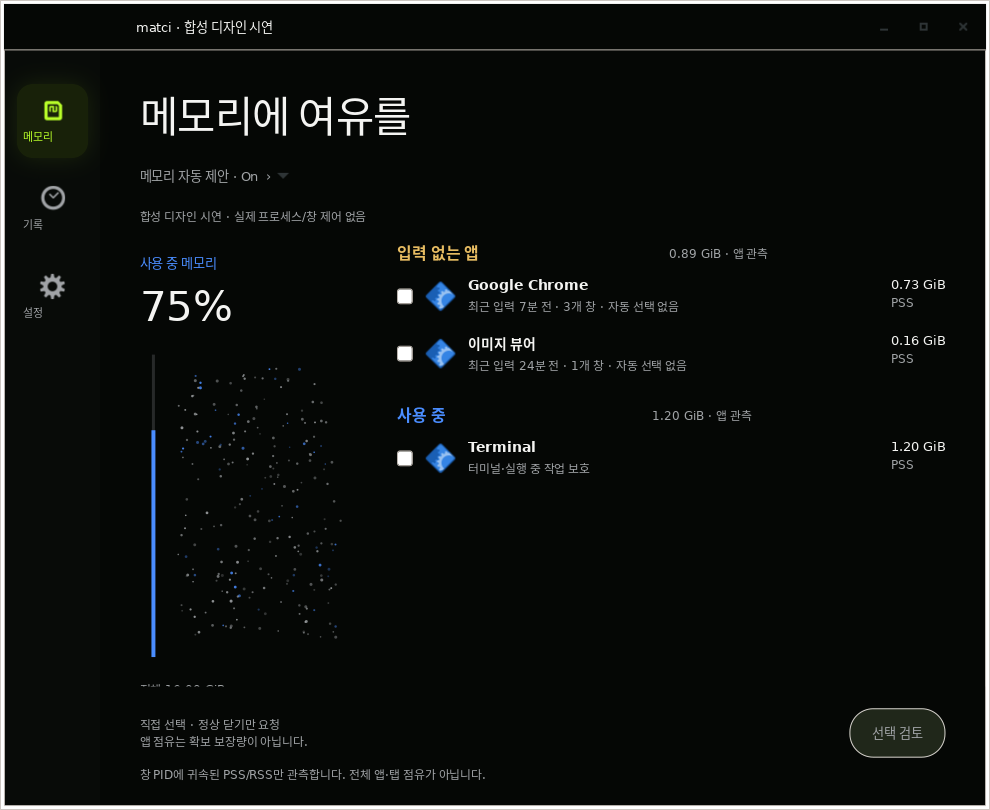
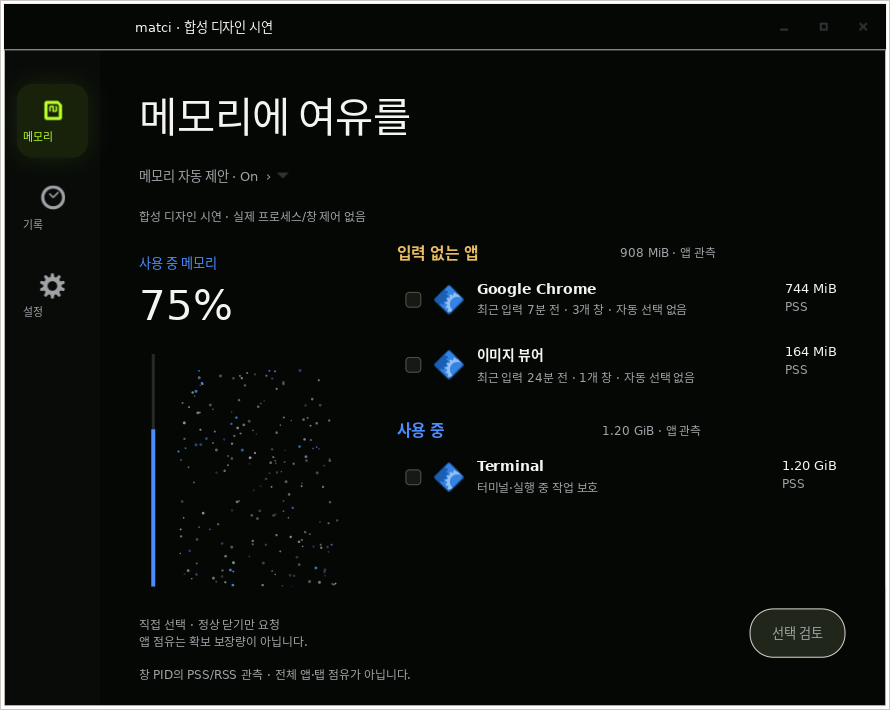
fix: polish adaptive GTK layout, units and release motion

diff --git a/app/main.js b/app/main.js
@@ -2,7 +2,8 @@ import Gtk from 'gi://Gtk?version=4.0';
 import Gdk from 'gi://Gdk?version=4.0';
 import Gio from 'gi://Gio';
 import GLib from 'gi://GLib';
-import {COLORS, memoryPoints} from './visualModel.js';
+import Pango from 'gi://Pango';
+import {COLORS, memoryPoints, formatBytes as bytes} from './visualModel.js';
 
 // Installed beside the extension modules. No worker, process collector or OS-close API.
 const root = Gio.File.new_for_uri(import.meta.url).get_parent().get_parent().get_path();
@@ -10,15 +11,17 @@ const demo = ARGV.includes('--demo') || ARGV.includes('--smoke');
 const smoke = ARGV.includes('--smoke');
 if (demo) GLib.setenv('GSETTINGS_BACKEND', 'memory', true);
 const app = new Gtk.Application({application_id: 'org.matci.App', flags: 0});
-const bytes = value => Number.isFinite(value) ? `${(value / 1073741824).toFixed(2)} GiB` : '확인 불가';
 const percent = value => Number.isFinite(value) ? `${Math.round(value * 100)}%` : '—';
 let win, content, graph, metric, notice, action, list, heading, autoButton, settings, dialog, graphCaption, footerHost;
 let page = 'memory', current = {mode:'offline', apps:[], memory:null}, selected = new Set();
 let polling = false, disposed = false, modal = false, pollTimer = 0, animationTimer = 0, drawCount = 0;
 let releaseAt = 0, receiptKey = '', points = [], sampleId = null, generation = 0, resultMetric = null;
 let installedApps = new Map();
+let shellLayout, navRail, memoryStage, visualization, actionRow, footerNote;
+let stacked = null, narrow = null;
+let smokeRows=[];
 const label = (text, css = '', wrap = false) => {
-    const widget = new Gtk.Label({label:String(text), xalign:0, wrap, hexpand:true});
+    const widget = new Gtk.Label({label:String(text), xalign:0, wrap, hexpand:true, wrap_mode:Pango.WrapMode.WORD_CHAR});
     if (css) widget.add_css_class(css); return widget;
 };
 const box = (vertical = true, spacing = 0) => new Gtk.Box({orientation:vertical ? Gtk.Orientation.VERTICAL : Gtk.Orientation.HORIZONTAL, spacing});
@@ -71,25 +74,44 @@ function autoPopover() {
     popover.set_child(body); popover._matciToggle=toggle; popover._matciSlider=slider; return popover;
 }
 function autoTitle() { if (autoButton) autoButton.label = `메모리 자동 제안 · ${settings?.get_boolean('auto-suggestions') ? 'On' : 'Off'}  ›`; }
+function responsive(force = false) {
+    const width = win.get_width() || 480;
+    const nextStacked = width < 820, nextNarrow = width < 700;
+    if (!force && nextStacked === stacked && nextNarrow === narrow) return;
+    stacked = nextStacked; narrow = nextNarrow;
+    for (const [active, css] of [[stacked,'stacked'],[narrow,'narrow']])
+        active ? win.add_css_class(css) : win.remove_css_class(css);
+    shellLayout.orientation = narrow ? Gtk.Orientation.VERTICAL : Gtk.Orientation.HORIZONTAL;
+    navRail.orientation = narrow ? Gtk.Orientation.HORIZONTAL : Gtk.Orientation.VERTICAL;
+    navRail.hexpand = narrow;
+    if (page === 'memory' && memoryStage) {
+        memoryStage.orientation = stacked ? Gtk.Orientation.VERTICAL : Gtk.Orientation.HORIZONTAL;
+        visualization.hexpand = stacked; graph.hexpand = stacked;
+        graph.content_width = stacked ? 1 : 230; graph.content_height = stacked ? 220 : 330;
+        actionRow.orientation = narrow ? Gtk.Orientation.VERTICAL : Gtk.Orientation.HORIZONTAL;
+    }
+}
 function memoryPage() {
     clear(content); clear(footerHost);
-    heading = label('메모리에 여유를', 'hero-title'); content.append(heading);
+    heading = label('메모리에 여유를', 'hero-title', true); content.append(heading);
     autoButton = new Gtk.MenuButton({halign:Gtk.Align.START}); autoButton.add_css_class('auto-trigger');
     autoButton.set_popover(autoPopover()); autoTitle(); content.append(autoButton);
     notice = label('', 'muted', true); content.append(notice);
-    const stage = box(false, 30); content.append(stage);
-    const visualization = box(true, 12); visualization.add_css_class('visualization'); visualization.hexpand = false;
+    memoryStage = box(false, 30); content.append(memoryStage);
+    visualization = box(true, 12); visualization.add_css_class('visualization'); visualization.hexpand = false;
     const values = box(true, 10); values.valign = Gtk.Align.CENTER; values.set_size_request(150, -1);
     values.append(label('사용 중 메모리', 'active')); metric = label('—', 'big-number'); values.append(metric);
     visualization.append(values);
     graph = new Gtk.DrawingArea({hexpand:false, content_height:330, content_width:230});
     graph.set_draw_func((_area, cr, width, height) => { try { draw(cr, width, height); drawCount++; } finally { cr.$dispose(); } });
-    visualization.append(graph); graphCaption = label('', 'muted', true); visualization.append(graphCaption); stage.append(visualization);
-    list = box(true, 24); list.hexpand = true; list.add_css_class('app-list'); stage.append(list);
-    const footer = box(false, 16); footer.add_css_class('action-bar');
-    footer.append(label('직접 선택 · 정상 닫기만 요청\n앱 점유는 확보 보장량이 아닙니다.', 'muted'));
-    action = button('선택 검토', review, 'suggested-action'); footer.append(action); footerHost.append(footer);
-    footerHost.append(label('창 PID에 귀속된 PSS/RSS만 관측합니다. 전체 앱·탭 점유가 아닙니다.', 'muted'));
+    visualization.append(graph); graphCaption = label('', 'muted', true); visualization.append(graphCaption); memoryStage.append(visualization);
+    list = box(true, 24); list.hexpand = true; list.add_css_class('app-list'); memoryStage.append(list);
+    actionRow = box(false, 16); actionRow.add_css_class('action-bar');
+    actionRow.append(label('직접 선택 · 정상 닫기만 요청\n앱 점유는 확보 보장량이 아닙니다.', 'muted'));
+    action = button('선택 검토', review, 'suggested-action'); actionRow.append(action); footerHost.append(actionRow);
+    footerNote=label('창 PID의 PSS/RSS 관측 · 전체 앱·탭 점유가 아닙니다.', 'muted');
+    footerNote.ellipsize=Pango.EllipsizeMode.END; footerNote.tooltip_text=footerNote.label; footerHost.append(footerNote);
+    responsive(true);
     renderMemory();
 }
 function renderMemory() {
@@ -101,6 +123,7 @@ function renderMemory() {
     const focusedId = win.get_focus()?._matciAppId;
     let restoreFocus = null;
     clear(list);
+    if (smoke) smokeRows=[];
     resultMetric = null;
     for (const [section, title] of [['idle','입력 없는 앱'], ['active','사용 중'], ['protected','시스템 · 작업 보호']]) {
         const apps = (current.apps ?? []).filter(item => item.section === section);
@@ -116,11 +139,20 @@ function renderMemory() {
             const check = new Gtk.CheckButton({active:selected.has(item.app_id), valign:Gtk.Align.CENTER});
             check._matciAppId = item.app_id;
             check.sensitive = !demo && !item.reason && !current.busy && !modal && current.mode === 'live';
+            if (smoke && ARGV.includes('--states') && !item.reason) check.sensitive=true;
             if (focusedId === item.app_id && check.sensitive) restoreFocus = check;
-            check.connect('toggled', () => { check.active ? selected.add(item.app_id) : selected.delete(item.app_id); updateAction(); });
+            const selectionStyle = () => check.active ? row.add_css_class('row-selected') : row.remove_css_class('row-selected');
+            selectionStyle();
+            const focus = new Gtk.EventControllerFocus();
+            focus.connect('enter',()=>row.add_css_class('row-focused'));
+            focus.connect('leave',()=>row.remove_css_class('row-focused')); row.add_controller(focus);
+            check.connect('toggled', () => { check.active ? selected.add(item.app_id) : selected.delete(item.app_id); selectionStyle(); updateAction(); });
+            if (!check.sensitive) row.add_css_class('row-protected');
+            if (smoke) smokeRows.push({row,check});
+            check.tooltip_text = item.reason ?? `${item.name} 선택 · 창 ${item.windows}개`;
             row.append(check); row.append(appIcon(item.app_id));
             const description = box(true, 3); description.hexpand = true;
-            description.append(label(item.name, 'app-name'));
+            const name=label(item.name, 'app-name'); name.ellipsize=Pango.EllipsizeMode.END; name.width_chars=1; name.tooltip_text=item.name; description.append(name);
             const age = Number.isFinite(item.input_age_ms) ? `최근 입력 ${Math.floor(item.input_age_ms / 60000)}분 전` : '최근 입력 시각 미확인';
             description.append(label(item.reason ?? `${age} · ${item.windows}개 창 · 자동 선택 없음`, 'muted', true)); row.append(description);
             const amountBox = box(true, 3); amountBox.hexpand = false; amountBox.append(label(bytes(item.memory_bytes), 'app-memory'));
@@ -144,7 +176,7 @@ function updateAction() {
     action.sensitive = !demo && current.mode === 'live' && !current.busy && !modal && selected.size > 0;
 }
 async function review() {
-    if (modal || current.busy || !selected.size) return;
+    if (demo || modal || current.busy || !selected.size) return;
     modal = true; list.sensitive=false; autoButton.sensitive=false; updateAction();
     let token = null;
     try {
@@ -177,7 +209,10 @@ function draw(cr, width, height) {
     if (Number.isFinite(ratio)) {
         setColor(cr, COLORS.active); cr.setLineWidth(4); cr.moveTo(14,height-12); cr.lineTo(14,height-12-(height-24)*ratio); cr.stroke();
     }
-    for (const point of memoryPoints(ratio, now, release, !motion())) {
+    const field = memoryPoints(ratio, now, 0, !motion());
+    if (release > 0 && release < 1)
+        field.push(...memoryPoints(ratio, releaseAt, release).filter((_point,index)=>index%4===0));
+    for (const point of field) {
         setColor(cr, point.color, point.alpha); cr.arc(point.x*width,point.y*height,point.radius,0,2*Math.PI); cr.fill();
     }
     if (points.length > 1) {
@@ -238,15 +273,16 @@ app.connect('activate', () => {
     try { settings = getSettings(); } catch (_error) { settings = null; }
     const provider = new Gtk.CssProvider(); provider.load_from_path(`${root}/app/style.css`);
     Gtk.StyleContext.add_provider_for_display(Gdk.Display.get_default(), provider, Gtk.STYLE_PROVIDER_PRIORITY_APPLICATION);
-    win = new Gtk.ApplicationWindow({application:app, title:'matci', default_width:1000, default_height:820}); win.add_css_class('matci');
+    const size = smoke ? ARGV.find(arg=>/^--size=\d+x\d+$/.test(arg))?.slice(7).split('x').map(Number) : null;
+    win = new Gtk.ApplicationWindow({application:app, title:'matci', default_width:size?.[0] ?? 900, default_height:size?.[1] ?? 720}); win.add_css_class('matci');
     const header = new Gtk.HeaderBar(); header.set_title_widget(label(demo ? 'matci · 합성 디자인 시연' : 'matci · 메모리', 'window-title')); win.set_titlebar(header);
-    const layout = box(false); win.set_child(layout); const rail = box(true,14); rail.hexpand=false; rail.add_css_class('rail'); layout.append(rail);
+    shellLayout = box(false); win.set_child(shellLayout); navRail=box(true,14); navRail.hexpand=false; navRail.add_css_class('rail'); shellLayout.append(navRail);
     for (const [id,title,icon] of [['memory','메모리','media-flash-symbolic'],['history','기록','document-open-recent-symbolic'],['settings','설정','emblem-system-symbolic']]) {
         const nav = new Gtk.Button(), inner = box(true,5); inner.append(new Gtk.Image({icon_name:icon,pixel_size:26})); inner.append(label(title)); nav.set_child(inner);
         if (id === page) nav.add_css_class('nav-active');
-        nav.connect('clicked', () => { if (modal) return; page=id; for (let child=rail.get_first_child();child;child=child.get_next_sibling()) child.remove_css_class('nav-active'); nav.add_css_class('nav-active'); ({memory:memoryPage,history:historyPage,settings:settingsPage})[page](); }); rail.append(nav);
+        nav.connect('clicked', () => { if (modal) return; page=id; for (let child=navRail.get_first_child();child;child=child.get_next_sibling()) child.remove_css_class('nav-active'); nav.add_css_class('nav-active'); ({memory:memoryPage,history:historyPage,settings:settingsPage})[page](); }); navRail.append(nav);
     }
-    const right = box(true); right.hexpand=true; layout.append(right);
+    const right = box(true); right.hexpand=true; right.vexpand=true; shellLayout.append(right);
     const scroll = new Gtk.ScrolledWindow({hexpand:true, vexpand:true, hscrollbar_policy:Gtk.PolicyType.NEVER}); right.append(scroll);
     content = box(true,16); content.add_css_class('content'); scroll.set_child(content);
     footerHost=box(true,8); footerHost.add_css_class('footer-host'); right.append(footerHost);
@@ -258,6 +294,7 @@ app.connect('activate', () => {
     memoryPage(); win.present(); poll();
     pollTimer = GLib.timeout_add_seconds(GLib.PRIORITY_DEFAULT,2, () => { poll(); return GLib.SOURCE_CONTINUE; });
     animationTimer = GLib.timeout_add(GLib.PRIORITY_DEFAULT,33, () => {
+        responsive();
         if (page==='memory' && win.is_active && motion() && Number.isFinite(current.memory?.used_ratio)) {
             graph.queue_draw();
             if (resultMetric && releaseAt) {
@@ -275,6 +312,18 @@ app.connect('activate', () => {
         GLib.timeout_add(GLib.PRIORITY_DEFAULT,300,()=>{popover.popdown();return GLib.SOURCE_REMOVE;});
         return GLib.SOURCE_REMOVE;
     });
+    const resize = smoke ? ARGV.find(arg=>/^--resize=\d+x\d+$/.test(arg))?.slice(9).split('x').map(Number) : null;
+    if (resize) GLib.timeout_add(GLib.PRIORITY_DEFAULT,700,()=>{
+        win.set_default_size(...resize);
+        // A second drag step applies the target after GTK has switched layout constraints.
+        GLib.timeout_add(GLib.PRIORITY_DEFAULT,150,()=>{win.set_default_size(...resize);return GLib.SOURCE_REMOVE;});
+        return GLib.SOURCE_REMOVE;
+    });
+    if (smoke && ARGV.includes('--states')) GLib.timeout_add(GLib.PRIORITY_DEFAULT,850,()=>{
+        smokeRows[0].check.active=true; smokeRows[0].check.grab_focus();
+        smokeRows[1].row.set_state_flags(Gtk.StateFlags.PRELIGHT,false);
+        return GLib.SOURCE_REMOVE;
+    });
     if (smoke) GLib.timeout_add(GLib.PRIORITY_DEFAULT,1200, () => {
         if (ARGV.includes('--capture')) {
             const paintable = Gtk.WidgetPaintable.new(win), snapshot = new Gtk.Snapshot();
@@ -285,7 +334,12 @@ app.connect('activate', () => {
             const texture = win.get_renderer().render_texture(node,null);
             texture.save_to_png(`${root}/docs/screenshots/native-gtk-v2.png`);
         }
-        print(JSON.stringify({gtk4:true,drawn:drawCount>0,popover:popoverChecked,demo:true})); win.close(); return GLib.SOURCE_REMOVE;
+        const [allocated,bounds]=action.compute_bounds(win);
+        print(JSON.stringify({gtk4:true,drawn:drawCount>0,popover:popoverChecked,demo:true,
+            width:win.get_width(),height:win.get_height(),stacked,narrow,
+            row_states:!ARGV.includes('--states') || (smokeRows[0].row.has_css_class('row-selected') && smokeRows[0].row.has_css_class('row-focused') && Boolean(smokeRows[1].row.get_state_flags() & Gtk.StateFlags.PRELIGHT) && !action.sensitive),
+            action_visible:allocated && bounds.get_y()>=0 && bounds.get_y()+bounds.get_height()<=win.get_height()}));
+        win.close(); return GLib.SOURCE_REMOVE;
     });
 });
 app.run([]);

diff --git a/app/style.css b/app/style.css
@@ -13,7 +13,15 @@ window.matci, .matci headerbar { background: #050705; color: #f4f4f2; }
 .auto-popover { padding: 20px; min-width: 280px; }
 .matci popover contents { background: #1b201c; color: #f4f4f2; border: 1px solid #444c44; border-radius: 20px; }
 .matci .section-title, .auto-popover .section-title { font-size: 16px; font-weight: 600; }
-.matci .app-row { padding: 5px 0; }
+.matci .app-row { padding: 8px; border-radius: 10px; border: 1px solid transparent; }
+.matci .app-row:hover:not(.row-protected) { background: #141c10; }
+.matci .app-row.row-selected { background: #1a270d; border-color: #435d20; }
+.matci .app-row.row-selected:hover { background: #223511; }
+.matci .app-row.row-focused { box-shadow: inset 0 0 0 2px #b9ff29; }
+.matci checkbutton check { background: #10150d; border: 1px solid #87947a; color: #10140a; border-radius: 4px; }
+.matci checkbutton check:checked { background: #b9ff29; border-color: #b9ff29; color: #10140a; }
+.matci checkbutton:focus-visible { outline: 2px solid #b9ff29; outline-offset: 3px; border-radius: 5px; }
+.matci checkbutton:disabled check { background: #151a14; border-color: #4c5546; }
 .matci .app-name { font-size: 14px; font-weight: 600; }
 .matci .app-memory { font-size: 13px; }
 .matci .muted, .auto-popover .muted { color: #a0a3a6; font-size: 12px; }
@@ -28,3 +36,10 @@ window.matci, .matci headerbar { background: #050705; color: #f4f4f2; }
 .matci .suggested-action:disabled { background: #20271a; color: #a0a3a6; }
 .matci .history-entry { padding: 20px 0; }
 .review-body { padding: 24px; }
+.matci.stacked .hero-title { font-size: 36px; }
+.matci.narrow .rail { min-width: 0; padding: 8px; }
+.matci.narrow .rail button { padding: 8px 12px; }
+.matci.narrow .content { padding: 20px; }
+.matci.narrow .footer-host { padding: 0 20px 16px; }
+.matci.narrow .action-bar { padding-top: 12px; }
+.matci.narrow .hero-title { font-size: 30px; }

diff --git a/app/visualModel.js b/app/visualModel.js
@@ -7,14 +7,22 @@ export function memoryPoints(ratio, seconds = 0, release = 0, reduced = false) {
     const count = Math.round(320 * Math.max(0, Math.min(1, ratio)));
     let seed = 2817;
     const random = () => { seed = (Math.imul(seed, 1664525) + 1013904223) >>> 0; return seed / 4294967296; };
-    const scatter = reduced ? 0 : Math.sin(Math.min(1, Math.max(0, release)) * Math.PI);
+    const progress = Math.min(1, Math.max(0, release));
+    const scatter = reduced ? 0 : 1 - Math.pow(1 - progress, 3);
     return Array.from({length: count}, (_, index) => {
         const x = random(), y = random(), phase = random() * Math.PI * 2;
-        return {x: .18 + x * .69 + (reduced ? 0 : Math.sin(seconds * .3 + phase) * .015) + (x - .5) * scatter * .65,
-            y: .09 + y * .82 + (reduced ? 0 : Math.cos(seconds * .23 + phase) * .012) - scatter * .13,
-            alpha: (.25 + random() * .65) * (1 - scatter * .6), radius: .75 + random() * .8,
+        const drifting = !reduced && progress === 0;
+        return {x: .18 + x * .69 + (drifting ? Math.sin(seconds * .3 + phase) * .015 : 0) + (x - .5) * scatter * .9,
+            y: .09 + y * .82 + (drifting ? Math.cos(seconds * .23 + phase) * .012 : 0) - scatter * (.12 + y * .2),
+            alpha: (.25 + random() * .65) * (1 - scatter), radius: .75 + random() * .8,
             color: !reduced && release > 0 && release < 1 && index % 4 === 0 ? COLORS.freed : index % 5 === 0 ? COLORS.active : COLORS.muted};
     });
+}
+
+export function formatBytes(value) {
+    if (!Number.isFinite(value) || value < 0) return '확인 불가';
+    if (value > 0 && value < 1048576) return '<1 MiB';
+    return value < 1073741824 ? `${Math.round(value / 1048576)} MiB` : `${(value / 1073741824).toFixed(2)} GiB`;
 }
 
 export function observedChange(before, after) {

diff --git a/web/visualModel.js b/web/visualModel.js
@@ -7,14 +7,22 @@ export function memoryPoints(ratio, seconds = 0, release = 0, reduced = false) {
     const count = Math.round(320 * Math.max(0, Math.min(1, ratio)));
     let seed = 2817;
     const random = () => { seed = (Math.imul(seed, 1664525) + 1013904223) >>> 0; return seed / 4294967296; };
-    const scatter = reduced ? 0 : Math.sin(Math.min(1, Math.max(0, release)) * Math.PI);
+    const progress = Math.min(1, Math.max(0, release));
+    const scatter = reduced ? 0 : 1 - Math.pow(1 - progress, 3);
     return Array.from({length: count}, (_, index) => {
         const x = random(), y = random(), phase = random() * Math.PI * 2;
-        return {x: .18 + x * .69 + (reduced ? 0 : Math.sin(seconds * .3 + phase) * .015) + (x - .5) * scatter * .65,
-            y: .09 + y * .82 + (reduced ? 0 : Math.cos(seconds * .23 + phase) * .012) - scatter * .13,
-            alpha: (.25 + random() * .65) * (1 - scatter * .6), radius: .75 + random() * .8,
+        const drifting = !reduced && progress === 0;
+        return {x: .18 + x * .69 + (drifting ? Math.sin(seconds * .3 + phase) * .015 : 0) + (x - .5) * scatter * .9,
+            y: .09 + y * .82 + (drifting ? Math.cos(seconds * .23 + phase) * .012 : 0) - scatter * (.12 + y * .2),
+            alpha: (.25 + random() * .65) * (1 - scatter), radius: .75 + random() * .8,
             color: !reduced && release > 0 && release < 1 && index % 4 === 0 ? COLORS.freed : index % 5 === 0 ? COLORS.active : COLORS.muted};
     });
+}
+
+export function formatBytes(value) {
+    if (!Number.isFinite(value) || value < 0) return '확인 불가';
+    if (value > 0 && value < 1048576) return '<1 MiB';
+    return value < 1073741824 ? `${Math.round(value / 1048576)} MiB` : `${(value / 1073741824).toFixed(2)} GiB`;
 }
 
 export function observedChange(before, after) {

diff --git a/web/app.js b/web/app.js
@@ -49,7 +49,9 @@ function startMemoryField() {
     const release = state.releaseAt && !reduceMotion() ? Math.min(1,(now-state.releaseAt)/1600) : 0;
     context.lineWidth = 3; context.strokeStyle = '#303630'; context.beginPath(); context.moveTo(20,16); context.lineTo(20,height-18); context.stroke();
     if (ratio !== null) { context.strokeStyle=COLORS.active; context.lineWidth=4; context.beginPath(); context.moveTo(20,height-18); context.lineTo(20,height-18-(height-34)*ratio); context.stroke(); }
-    for (const point of memoryPoints(ratio, now/1000, release, reduceMotion())) {
+    const field = memoryPoints(ratio,now/1000,0,reduceMotion());
+    if(release>0 && release<1) field.push(...memoryPoints(ratio,state.releaseAt/1000,release).filter((_point,index)=>index%4===0));
+    for (const point of field) {
       context.globalAlpha=point.alpha; context.fillStyle=point.color; context.beginPath(); context.arc(point.x*width,point.y*height,point.radius,0,Math.PI*2); context.fill();
     }
     context.globalAlpha=1;

diff --git a/tools/smoke_gtk.py b/tools/smoke_gtk.py
@@ -10,6 +10,9 @@ import tempfile
 def main():
     parser = argparse.ArgumentParser(description=__doc__)
     parser.add_argument('--capture', action='store_true')
+    parser.add_argument('--size', default='900x720', help='Logical GTK size, e.g. 480x720')
+    parser.add_argument('--resize', help='Resize the mapped window to this logical size')
+    parser.add_argument('--states', action='store_true', help='Render synthetic checkbox selected/focus/hover states')
     args = parser.parse_args()
     root = Path(__file__).resolve().parents[1]
     with tempfile.TemporaryDirectory(prefix='matci-gtk-') as temporary:
@@ -17,13 +20,25 @@ def main():
                         str(root / 'extension/schemas')], check=True)
         environment = dict(os.environ, GSETTINGS_SCHEMA_DIR=temporary, GSETTINGS_BACKEND='memory',
                            GDK_BACKEND='x11', GSK_RENDERER='cairo', G_DEBUG='fatal-criticals')
-        command = ['dbus-run-session', '--', 'xvfb-run', '-a', 'gjs', '-m', str(root / 'app/main.js'), '--smoke']
+        width, height = map(int, args.size.split('x'))
+        if not (360 <= width <= 1600 and 480 <= height <= 1200):
+            raise SystemExit('Unsupported smoke size')
+        command = ['dbus-run-session', '--', 'xvfb-run', '-a', 'gjs', '-m', str(root / 'app/main.js'), '--smoke', f'--size={args.size}']
+        if args.resize:
+            width,height=map(int,args.resize.split('x'))
+            if not (360 <= width <= 1600 and 480 <= height <= 1200):
+                raise SystemExit('Unsupported resize size')
+            command.append(f'--resize={args.resize}')
+        if args.states:
+            command.append('--states')
         if args.capture:
             command.append('--capture')
         completed = subprocess.run(command, env=environment, text=True, capture_output=True, timeout=25, check=True)
         result = json.loads(completed.stdout.strip().splitlines()[-1])
-        if not result.get('drawn') or not result.get('popover'):
-            raise SystemExit('GTK rendering or popover check failed')
+        if not result.get('drawn') or not result.get('popover') or not result.get('action_visible') or not result.get('row_states'):
+            raise SystemExit('GTK rendering, popover or fixed action check failed')
+        if result['width'] > width + 2 or result['height'] > height + 2:
+            raise SystemExit(f'GTK minimum size prevented requested resize: {result}')
         print(json.dumps(result))
 
 

diff --git a/docs/GNOME50_VISUAL_QA.md b/docs/GNOME50_VISUAL_QA.md
@@ -1,0 +1,22 @@
+# GNOME 50 실기 시각 검수 — 대기
+
+PR #1의 네 번째 요청은 **실제 ASUS Ubuntu GNOME 50 세션에서 눈으로 검수**하는 것이다. 현재 접근 가능한 호스트는 Windows다. WSL의 Ubuntu24.04/22.04에는 gnome-shell이 없고, Ubuntu20.04에는3.36.9 바이너리만 확인됐다. GNOME50 실기 세션은 확인/접근하지 못했다. 아래 항목은 통과로 기록하지 않는다.
+
+## 이번에 확인한 대체 범위
+
+GTK4.6/Xvfb에서900×720·480×720·390×720 및 넓게↔좁게 실제 mapped 창 resize를 실행했다. 세로 stack·상단 rail·고정 action·popover를 검사했고 `G_DEBUG=fatal-criticals`에서도 통과했다. 선택/hover/focus는 합성 GTK 상태로 렌더링해 캡처를 확인했다. 이는 실제 pointer·GNOME50 테마·150% 배율 검수가 아니다.
+
+- [선택·hover·focus 합성 상태](screenshots/native-gtk-interaction.png)
+- [좁은 GTK 창](screenshots/native-gtk-narrow.png)
+
+## 실제 세션에서 기록할 것
+
+장치 모델 / Ubuntu 버전 / `gnome-shell --version` / Wayland 또는 X11 / 화면 해상도 / 디스플레이 배율 / 테마 / 실행일을 `local-diagnostics/`에 기록한다. 전체 환경·세션·사용자 DB를 업로드하지 않는다.
+
+- [ ] 실제 GNOME50 +150%에서 launcher로 열고 창을 좁혔다 넓혀도 목록과 고정 action이 잘리지 않는다.
+- [ ] checkbox 미선택·hover·선택·키보드 focus가 명확하며 기본 파란 accent가 라임 체크 상태에 섞이지 않는다. 보호 행은 선택 불가다.
+- [ ] rail 선택·hover·focus, popover 토글·slider·키보드·닫기·화면 끝 배치를 확인한다.
+- [ ] 실제 설치된 Chrome/Terminal 등의 desktop GIcon을 확인한다. 테마 fallback을 실제 앱 로고 검수 통과로 세지 않는다.
+- [ ] 모션 감소에서 입자와 counter가 정지/즉시 반영되며 일반 모션에서 outgoing 입자가 되돌아오지 않는다.
+
+실제 창 닫기/저장 취소·suspend/resume·lock·Archsport 동시 노치·launcher upgrade 검수는 기존 Linux P0 항목으로 계속 남긴다. 이 시각 polish를 이유로 Draft를 해제하지 않는다.

diff --git a/replica/verification.md b/replica/verification.md
@@ -1,5 +1,15 @@
 # 검증 기록
 
+## PR #1 polish — 2026-10-18
+
+기능 추가 없이 GTK responsive/행 상태, 단방향 scatter+fade, MiB/GiB adaptive formatting을 수정했다. JS22/22(기존20+단위 경계·단방향 이동/opacity 회귀2개) 통과. Python core/창 닫기 정책은 변경하지 않았다.
+
+GTK4.6/Xvfb에서900×720와480×720,390×720 시작 및900→390/480→900 mapped 창 resize를 실행했다. 최종 logical allocation890×710/380×710, column↔stack/상단 rail 전환과 고정 action 가시성을 확인했다. GTK가 첫 resize를 이전 최소 크기로 제한하는 점을 재현했고 레이아웃 전환 후 두 번째 drag step까지 검수했다. `G_DEBUG=fatal-criticals` 상태로 popover/GSettings(memory) 및 합성 checkbox 선택·focus·hover 렌더 검사도 통과했다. 실제 pointer/GNOME50 검수가 아니다.
+
+Chromium에서 닫기 합성 시연→counter 완료→확산 종료 뒤에도 기본 field가 남는지(축을 제외한 영역의 입자2006pixels) 확인했다. 모션 감소와390px overflow0 확인, 콘솔 오류/경고0. outgoing 층은 최대80개이며 기본320개 field와 분리되어 돌아오지 않는다. 캡처는 docs/screenshots/native-gtk-{v2,narrow,interaction}.png.
+
+**실제 GNOME50·150% 시각 검수는 미실행.** 현재 Windows/WSL에 접근 가능한 GNOME50 실기 세션이 없다. WSL20.04의3.36.9 바이너리는 해당 검수 환경이 아니다. `../docs/GNOME50_VISUAL_QA.md`의 checkbox/rail/popover/설치 앱 아이콘 항목을 미검증으로 유지한다. Draft 유지, Disk/Organize 기능 추가 없음.
+
 ## 디자인 V2 — 2026-10-18 추가 검증
 
 - Windows Python44개:42통과/2POSIX·symlink skip. WSL Ubuntu22.04 Python3.10:44/44. Launcher 업그레이드→pre-GTK rollback과 사용자 바로가기 보존2개 검증을 추가했다. 기존 core 안전 정책은 유지했다.

diff --git a/docs/DESIGN_V2.md b/docs/DESIGN_V2.md
@@ -1,5 +1,7 @@
 # Memory 창 개편 계약
 
+PR #1 후속 polish: 기본 GTK900×720,820logical px 미만에서 메모리/목록 stack,700미만에서 상단 rail·세로 action으로 전환한다. 실제 resize 때도 현재 선택과 폼을 재생성하지 않는다. 앱 점유는1GiB 미만 MiB/이상 GiB,0과unknown을 구별한다. release는 별도 outgoing 층의 단방향 scatter+fade이며 기본 field는 새 관측 밀도로 유지한다. 기본최대320입자+일시적확산최대80입자다. GNOME50/150% 시각 검수는 `GNOME50_VISUAL_QA.md`에서 미검증으로 관리한다.
+
 사용자 피드백(2026-10-18)에 따라 큰 독립 GTK4 창을 추가한다. 웹과 GTK 모두 검정 바탕, 상태별 yellow/blue/gray/lime, 세로 사용량 축과 입자, 여백 중심 목록, 아이콘 rail, 자동 제안 popover를 사용한다. 사용자 제안 색은 역할을 재현하는 새 팔레트이며 원본 픽셀 측정값이 아니다.
 
 - 웹은 계속 합성 시연이다. 큰 메모리 화면을 기본으로 두고 결과를 같은 화면에서 입자 확산·관측 counter로 보여준다. 양의 관측 변화만 lime, 음수도 그대로 표시한다. 모션 감소 시 정지 상태로 즉시 전환한다.

diff --git a/replica/design/components.md b/replica/design/components.md
@@ -4,6 +4,8 @@
 
 MemoryField: Canvas/Gtk.DrawingArea가 같은 point model을 사용한다. 세로 축·최대320입자·양의 관측 변화 후1.6초 확산/counter, 모션 감소 시 정지/즉시 값. 점은 바이트와1:1 대응하지 않는다. 브라우저 hidden/화면 이동 때 RAF 중지, GTK는 활성 메모리 창에서만 redraw한다.
 
+후속 변경: 왕복 sine 대신 단조 ease-out outgoing 층(최대80입자)의 scatter+fade를 사용한다. 기본 field는 새 밀도로 남으며 사라진 입자를 원위치로 돌리지 않는다. GTK 행은 hover/선택 배경/라임 focus와 checkbox 상태를 구분한다. MiB/GiB adaptive formatting은 정확히1GiB에서 단위를 바꾸며 작은 양수는 `<1 MiB`,누락은 확인 불가다.
+
 AutoCarePopover: 토글+50–99 slider+정책 설명, 기본off·키보드 조작·자동 닫기 없음. GTK는 GSettings, 웹은 시연 상태다. GTK demo/smoke는 설정도 memory backend다.
 
 | 컴포넌트 | variants / 상태 | 상호작용·접근성 | 사용 화면 |
